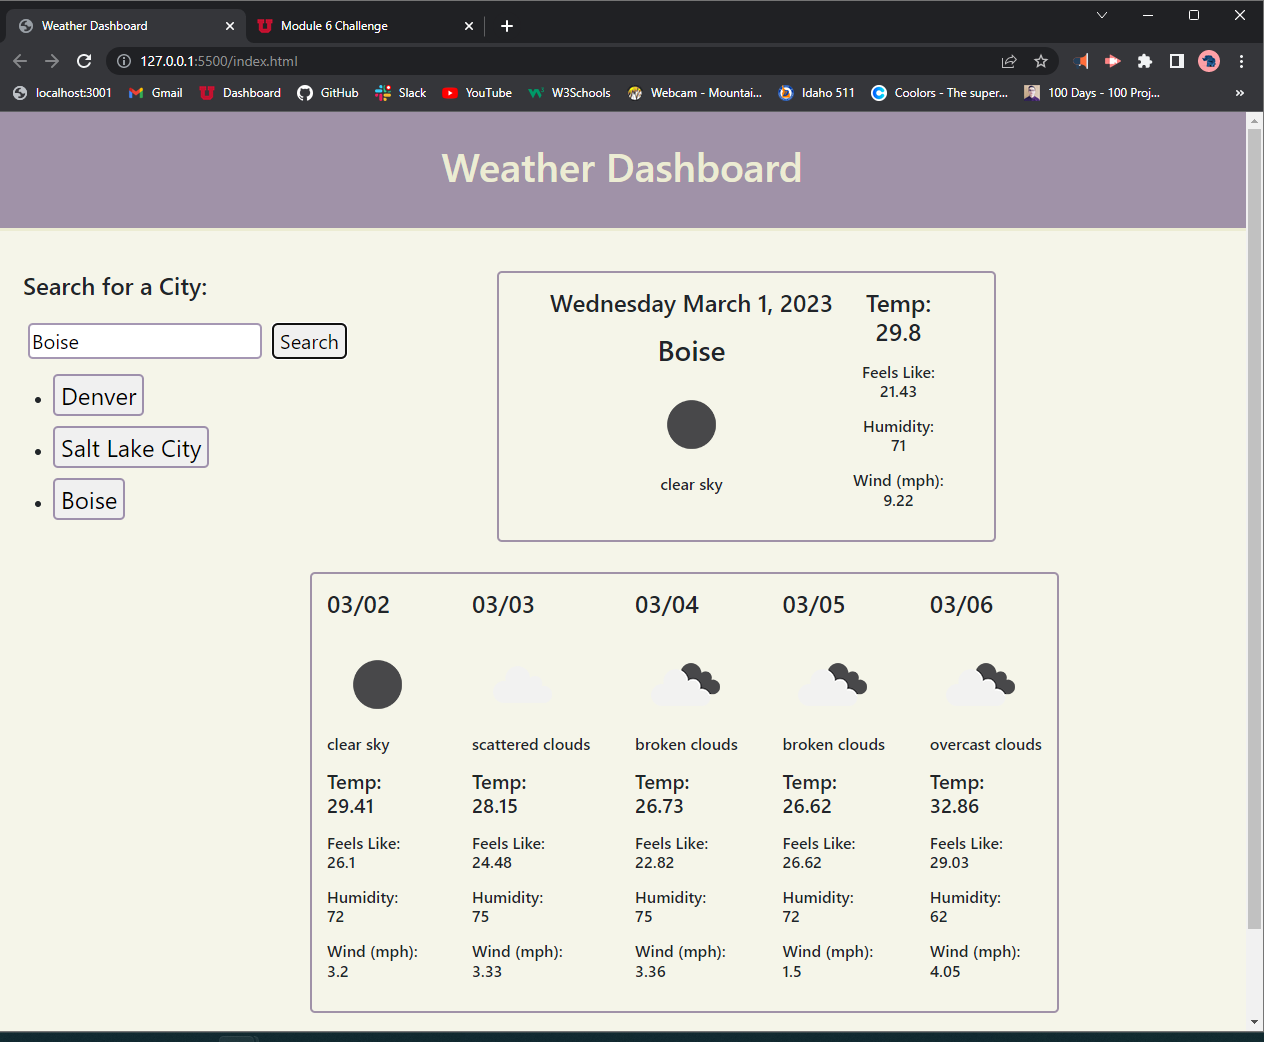
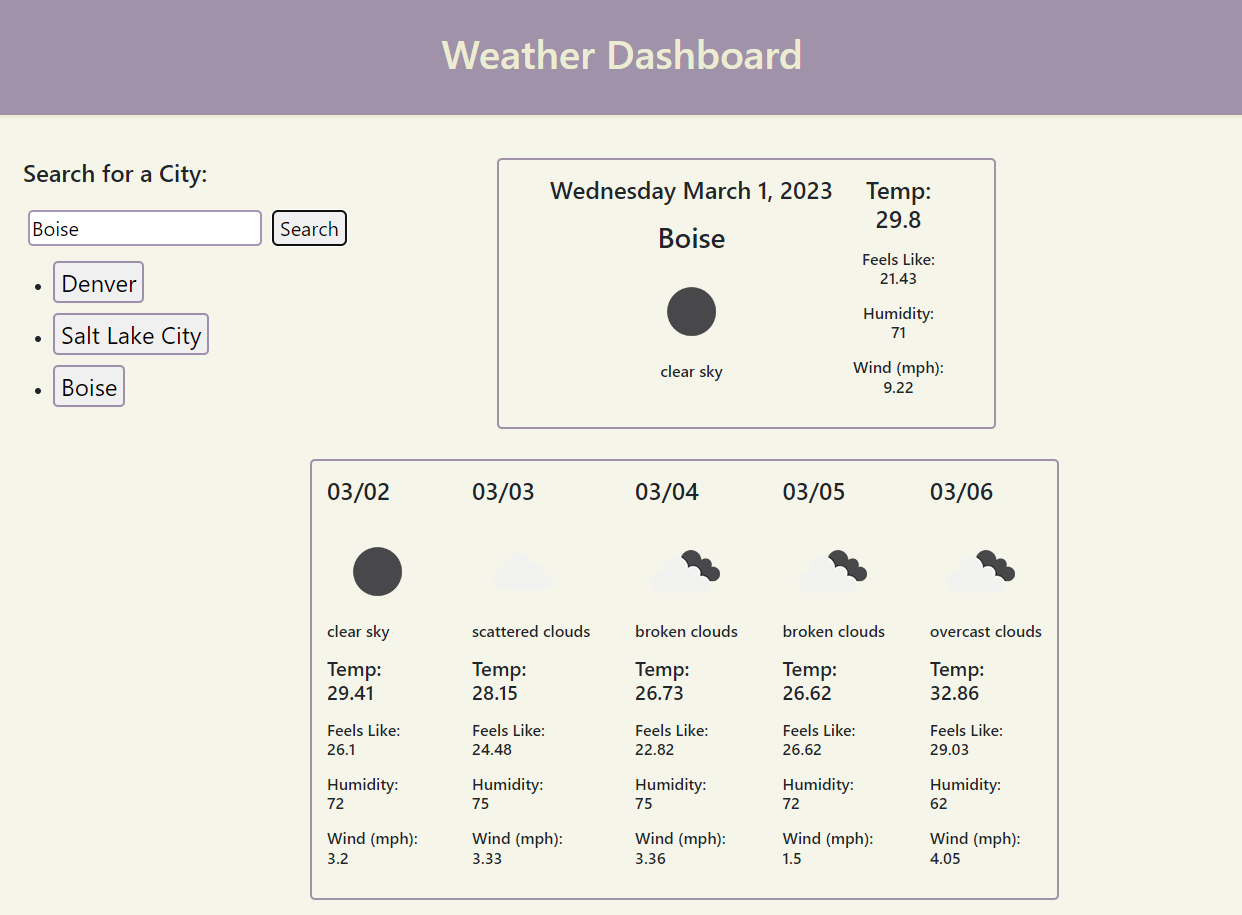
css update + search state initials + js buttons

Changed region(s): [[0.0, 0.0, 1.0, 0.918], [0.0, 0.459, 1.0, 1.0]]

diff --git a/assets/script.js b/assets/script.js
@@ -1,12 +1,27 @@
 let searchButton = $('#search-button');
+let searchBar = $('#search-bar');
+
+console.log("Search button:", searchButton);
+console.log("Search bar:", searchBar);
 
 let getWeatherData = () => {
+  console.log("getWeatherData function called");
   let citySearch = $('#search-bar').val();
-  let apiURL = "api.openweathermap.org"; // Main Weather API URL
+  console.log("City search:", citySearch);
+  // let apiURL = "api.openweathermap.org"; // Main Weather API URL
   let userSearch = citySearch; 
   let APIKey = "107d1fdb9fa2b933ecc98f2db7577eeb";
-  let weatherApiInformation = "https://api.openweathermap.org/data/2.5/weather?q=" + userSearch + "&appid=" + APIKey + '&units=imperial'; // API parameters that allows user to receive weather info
-  let date = dayjs().format('dddd MMMM D, YYYY');
+
+  // let stateAbbreviation = usStateCodes.getStateCodeByStateName(userSearch);
+  // if (!stateAbbreviation) {
+  //   userSearch = usStateCodes.getStateNameByStateCodes(citySearch);
+  // } else {
+  //   userSearch = stateAbbreviation;
+  // }
+
+  let weatherApiInformation = "https://api.openweathermap.org/data/2.5/weather?q=" + userSearch + "&appid=" + APIKey + '&units=imperial'; 
+  // API parameters that allows user to receive weather info
+  let date = dayjs().format('ddd - MMM D, YYYY');
 
   let li = document.createElement('li');
   let hist = document.createElement('button');
@@ -32,54 +47,71 @@ let getWeatherData = () => {
       $('.humidity').text(data.main.humidity);
       $('.wind').text(data.wind.speed);
 
-  fetch('https://api.openweathermap.org/data/2.5/forecast?lat=' + data.coord.lat + '&lon=' + data.coord.lon + '&appid=' + APIKey + '&units=imperial')
-    .then(function (response) {
-      return response.json();
+      fetch('https://api.openweathermap.org/data/2.5/forecast?lat=' + data.coord.lat + '&lon=' + data.coord.lon + '&appid=' + APIKey + '&units=imperial')
+        .then(function (response) {
+          return response.json();
+        })
+        .then(function (data) {
+          console.log(data);
+          $('.date-1').text(dayjs(data.list[4].dt_txt).format('MM/DD'));
+          $('.icon-1').attr('src', 'https://openweathermap.org/img/wn/' + data.list[0].weather[0].icon + '@2x.png');
+          $('.description-1').text(data.list[0].weather[0].description);
+          $('.temp-1').text(data.list[0].main.temp);
+          $('.feels-like-1').text(data.list[0].main.feels_like);
+          $('.humidity-1').text(data.list[0].main.humidity);
+          $('.wind-1').text(data.list[0].wind.speed);
+
+          $('.date-2').text(dayjs(data.list[12].dt_txt).format('MM/DD'));
+          $('.icon-2').attr('src', 'https://openweathermap.org/img/wn/' + data.list[1].weather[0].icon + '@2x.png');
+          $('.description-2').text(data.list[1].weather[0].description);
+          $('.temp-2').text(data.list[1].main.temp);
+          $('.feels-like-2').text(data.list[1].main.feels_like);
+          $('.humidity-2').text(data.list[1].main.humidity);
+          $('.wind-2').text(data.list[1].wind.speed);
+
+          $('.date-3').text(dayjs(data.list[20].dt_txt).format('MM/DD'));
+          $('.icon-3').attr('src', 'https://openweathermap.org/img/wn/' + data.list[2].weather[0].icon + '@2x.png');
+          $('.description-3').text(data.list[2].weather[0].description);
+          $('.temp-3').text(data.list[2].main.temp);
+          $('.feels-like-3').text(data.list[2].main.feels_like);
+          $('.humidity-3').text(data.list[2].main.humidity);
+          $('.wind-3').text(data.list[2].wind.speed);
+
+          $('.date-4').text(dayjs(data.list[28].dt_txt).format('MM/DD'));
+          $('.icon-4').attr('src', 'https://openweathermap.org/img/wn/' + data.list[3].weather[0].icon + '@2x.png');
+          $('.description-4').text(data.list[3].weather[0].description);
+          $('.temp-4').text(data.list[3].main.temp);
+          $('.feels-like-4').text(data.list[3].main.feels_like);
+          $('.humidity-4').text(data.list[3].main.humidity);
+          $('.wind-4').text(data.list[3].wind.speed);
+
+          $('.date-5').text(dayjs(data.list[36].dt_txt).format('MM/DD'));
+          $('.icon-5').attr('src', 'https://openweathermap.org/img/wn/' + data.list[4].weather[0].icon + '@2x.png');
+          $('.description-5').text(data.list[4].weather[0].description);
+          $('.temp-5').text(data.list[4].main.temp);
+          $('.feels-like-5').text(data.list[4].main.feels_like);
+          $('.humidity-5').text(data.list[4].main.humidity);
+          $('.wind-5').text(data.list[4].wind.speed);
+        })
+
+        .catch(function (error) {
+          console.error('Error fetching forcast data:', error);
+        });
     })
-    .then(function (data) {
-      console.log(data);
-      $('.date-1').text(dayjs(data.list[4].dt_txt).format('MM/DD'));
-      $('.icon-1').attr('src', 'https://openweathermap.org/img/wn/' + data.list[0].weather[0].icon + '@2x.png');
-      $('.description-1').text(data.list[0].weather[0].description);
-      $('.temp-1').text(data.list[0].main.temp);
-      $('.feels-like-1').text(data.list[0].main.feels_like);
-      $('.humidity-1').text(data.list[0].main.humidity);
-      $('.wind-1').text(data.list[0].wind.speed);
-
-      $('.date-2').text(dayjs(data.list[12].dt_txt).format('MM/DD'));
-      $('.icon-2').attr('src', 'https://openweathermap.org/img/wn/' + data.list[1].weather[0].icon + '@2x.png');
-      $('.description-2').text(data.list[1].weather[0].description);
-      $('.temp-2').text(data.list[1].main.temp);
-      $('.feels-like-2').text(data.list[1].main.feels_like);
-      $('.humidity-2').text(data.list[1].main.humidity);
-      $('.wind-2').text(data.list[1].wind.speed);
-
-      $('.date-3').text(dayjs(data.list[20].dt_txt).format('MM/DD'));
-      $('.icon-3').attr('src', 'https://openweathermap.org/img/wn/' + data.list[2].weather[0].icon + '@2x.png');
-      $('.description-3').text(data.list[2].weather[0].description);
-      $('.temp-3').text(data.list[2].main.temp);
-      $('.feels-like-3').text(data.list[2].main.feels_like);
-      $('.humidity-3').text(data.list[2].main.humidity);
-      $('.wind-3').text(data.list[2].wind.speed);
-
-      $('.date-4').text(dayjs(data.list[28].dt_txt).format('MM/DD'));
-      $('.icon-4').attr('src', 'https://openweathermap.org/img/wn/' + data.list[3].weather[0].icon + '@2x.png');
-      $('.description-4').text(data.list[3].weather[0].description);
-      $('.temp-4').text(data.list[3].main.temp);
-      $('.feels-like-4').text(data.list[3].main.feels_like);
-      $('.humidity-4').text(data.list[3].main.humidity);
-      $('.wind-4').text(data.list[3].wind.speed);
-
-      $('.date-5').text(dayjs(data.list[36].dt_txt).format('MM/DD'));
-      $('.icon-5').attr('src', 'https://openweathermap.org/img/wn/' + data.list[4].weather[0].icon + '@2x.png');
-      $('.description-5').text(data.list[4].weather[0].description);
-      $('.temp-5').text(data.list[4].main.temp);
-      $('.feels-like-5').text(data.list[4].main.feels_like);
-      $('.humidity-5').text(data.list[4].main.humidity);
-      $('.wind-5').text(data.list[4].wind.speed);
-    })
-  });
+    .catch(function (error) {
+      console.error('Error fetching weather data:', error);
+    });
 };
 
-searchButton.on('click', getWeatherData);
+searchButton.on('click', function() {
+  console.log("Search button clicked");
+  getWeatherData();
+});
 
+searchBar.on('keypress', function(event) {
+  console.log("Keypress event detected");
+  if (event.key === 'Enter') {
+    console.log("Enter key pressed");
+    getWeatherData();
+  }
+});

diff --git a/index.html b/index.html
@@ -11,7 +11,7 @@
 
   <body>
     <header>
-      <h1>Weather Dashboard</h1>
+      <h1 class="weather">Weather&nbsp;</h1> <h1 class="dashboard">Dashboard</h1>
       <br>
     </header>
 
@@ -26,26 +26,26 @@
           <ul id="history"></ul>
         </div>
       </div>
-        
+
       <div class="weather-container text-center">
         <div class="current-info">
           <div class="current-info-left">
             <div>
               <h4><p class="date"></p></h4>
             </div>
-            <h3 class="cityName"></h3>
+            <h4>Temp:<p class="temp"></p>&deg;F</h4>
             <img class="icon">
             <h6><p class="description"></p></h6>
           </div>
           <div class="current-info-right">
-            <h4>Temp: <p class="temp"></p></h4>
+            <h3 class="cityName"></h3>
             <h6>Feels Like: <p class="feels-like"></p></h6>
             <h6>Humidity: <p class="humidity"></p></h6>
             <h6>Wind (mph): <p class="wind"></p></h6>
           </div>
         </div>
       </div>
-
+      
       <div class="forcast-container">
         <div class="card-1">
           <h4><p class="date-1"></p></h4>
@@ -93,15 +93,17 @@
           <h6>Wind (mph): <p class="wind-5"></p></h6>
         </div>
       </div>
+
+     
     </main>
 
-    <footer class="footer">
+    <!-- <footer class="footer">
       <div class="text-center">
         <p>
           <h5>Made with 💛 by <a href="https://github.com/TheKelsenator">The Kelsenator</a></h5>
         </p>
       </div>
-    </footer>
+    </footer> -->
 
     <script
       src="https://cdn.jsdelivr.net/npm/dayjs@1.11.3/dayjs.min.js"
@@ -112,6 +114,7 @@
     <script src="./assets/script.js"></script>
     <script src="https://cdn.jsdelivr.net/npm/popper.js@1.14.3/dist/umd/popper.min.js" integrity="sha384-ZMP7rVo3mIykV+2+9J3UJ46jBk0WLaUAdn689aCwoqbBJiSnjAK/l8WvCWPIPm49" crossorigin="anonymous"></script>
     <script src="https://cdn.jsdelivr.net/npm/bootstrap@4.1.3/dist/js/bootstrap.min.js" integrity="sha384-ChfqqxuZUCnJSK3+MXmPNIyE6ZbWh2IMqE241rYiqJxyMiZ6OW/JmZQ5stwEULTy" crossorigin="anonymous"></script>
+    <script src="https://unpkg.com/us-state-codes/dist/index.umd.js"></script>
 
   </body>
 </html>

diff --git a/assets/style.css b/assets/style.css
@@ -3,37 +3,53 @@
 }
 
 body {
-  position: relative;
-  background-color: rgb(245, 245, 233);
+  background-image: url('../images/gradient-background.gif');
+  background-repeat: no-repeat;
+  background-attachment: fixed;
+  background-size: 100%;
+}
+
+main {
+  color: #124659;
 }
 
 header {
   display: flex;
-  justify-content: center;
-  text-align: center;
-  padding: 30px;
-  color: rgb(236, 236, 211);
-  background-color: rgba(76, 47, 104, 0.5);
-  border-bottom: 3px solid;
+  margin-left: 4%;
+  padding: 2%;
+}
+
+.weather {
+  color: grey;
+}
+
+.dashboard {
+  color: #134b5f;
+}
+
+h4.city {
+  margin-left: 9%;
 }
 
 .search {
   display: flex;
   flex: row;
   float: left;
-  margin: 15px;
+  margin: 2% 0 3% 9%;
 }
 
 #search-bar {
+  color: #124659;
   font-size: 20px;
   margin-right: 10px;
-  border: 2px solid rgba(76, 47, 104, 0.5);
+  border: 2px solid #5f676a;
   border-radius: 5px;
 }
 
 #search-button {
   font-size: 20px;
-  border: 2px solid rgba(76, 47, 104, 0.5);
+  color: #124659;
+  border: 2px solid #5f676a;
   border-radius: 5px;
 }
 
@@ -41,9 +57,15 @@ header {
   display: flex;
   flex: column;
   font-size: 24px;
-  border: 2px solid rgba(76, 47, 104, 0.5);
+  color: #124659;
+  background-color: #e9f0f3;
+  border: 2px solid #5f676a;
   border-radius: 5px;
-  margin-bottom: 10px;
+  margin: 2% 0 2% 9%;
+}
+
+#history li {
+  list-style: none;
 }
 
 .left-side {
@@ -68,7 +90,7 @@ header {
   margin-top: 40px;
   margin-left: 40%;
   padding: 15px;
-  border: 2px solid rgba(76, 47, 104, 0.5);
+  border: 2px solid #5f676a;
   border-radius: 5px;
 }
 
@@ -87,14 +109,13 @@ header {
   padding-left: 20px;
 }
 
-
 .forcast-container {
   display: flex;
   flex: column;
   float: right;
   justify-content: space-between;
   width: 60%;
-  border: 2px solid rgba(76, 47, 104, 0.5);
+  border: 2px solid #5f676a;
   border-radius: 5px;
   margin: 15px;
   margin-right: 15%;
@@ -103,10 +124,8 @@ header {
 }
 
 .footer {
-  display: inline-block;
-  text-align: center;
+  display: flex;
   width: 100%;
-  padding: 10px;
-  color: rgb(236, 236, 211);
-  background-color: rgba(76, 47, 104, 0.5);
+  justify-content: end;
+  padding: 0 3% 1% 0;
 }
